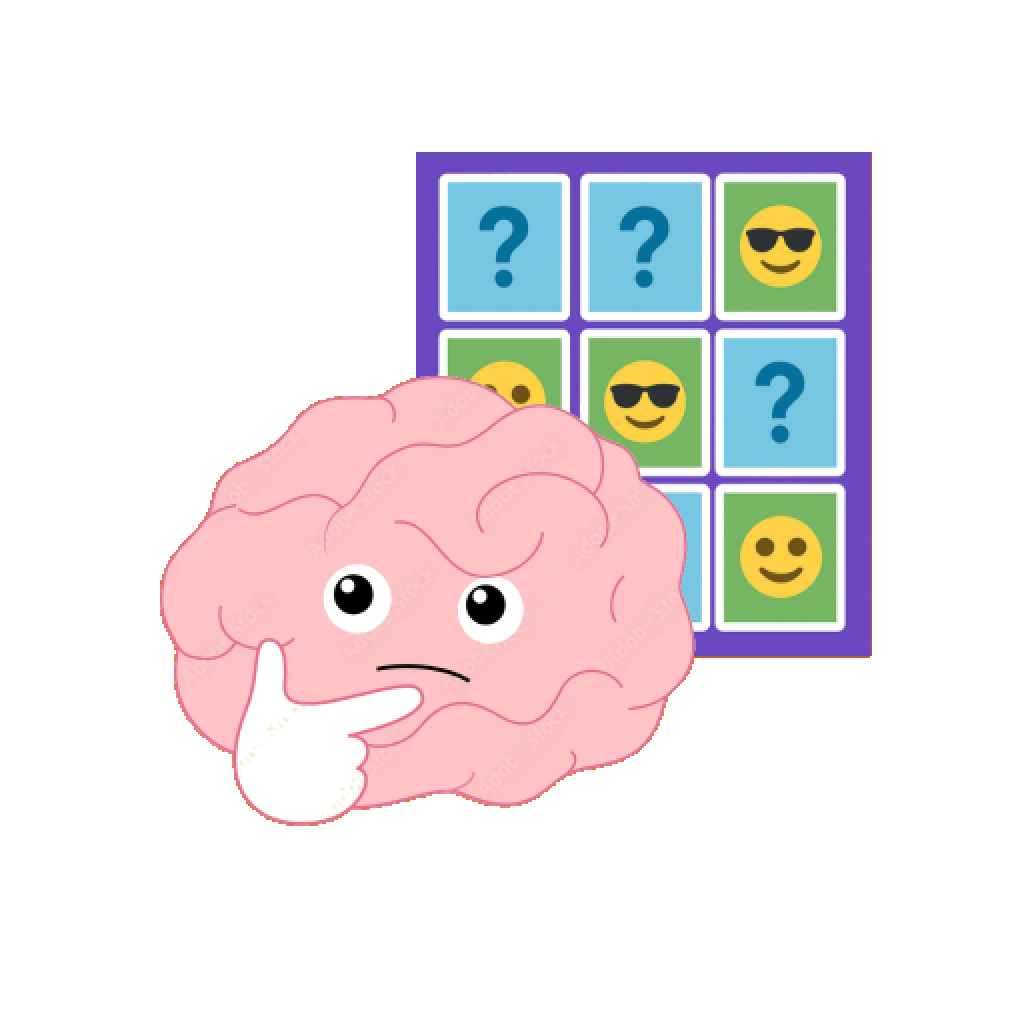
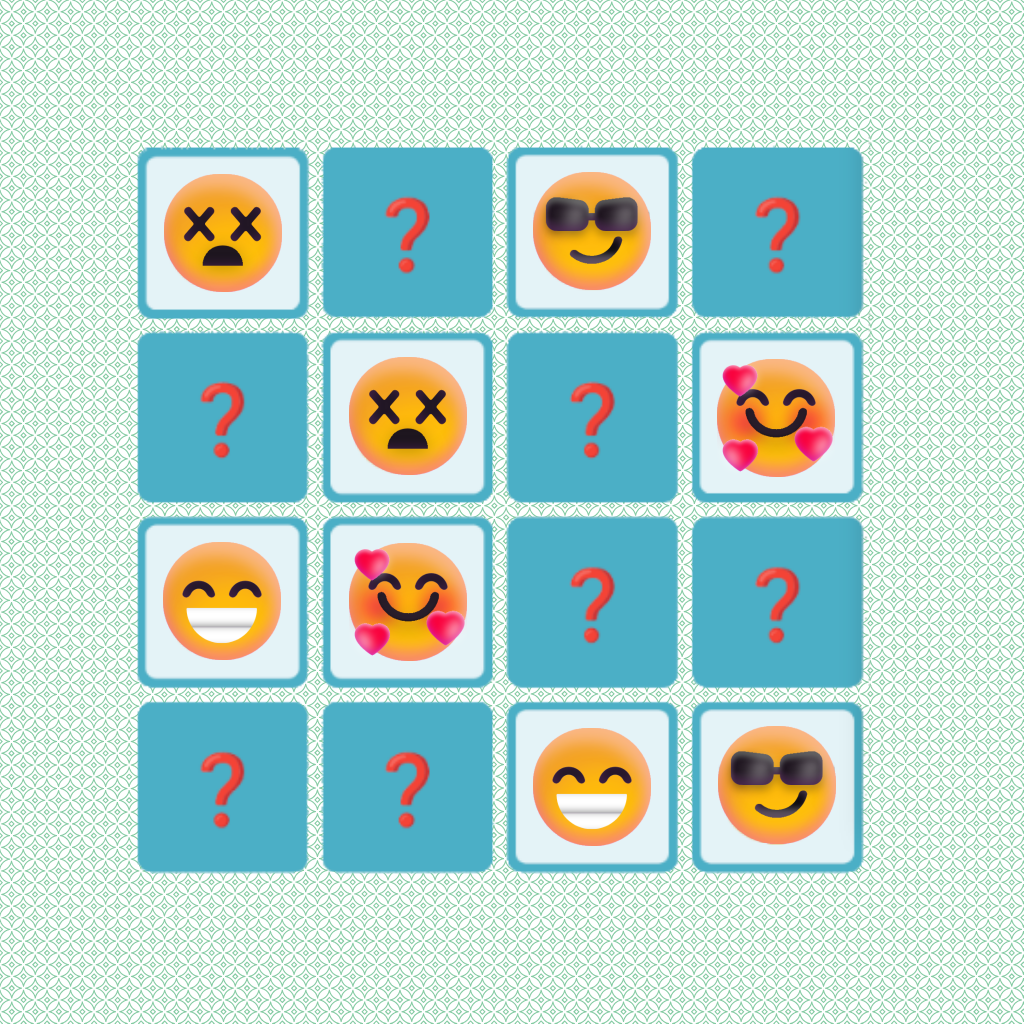
Update privacy policy

diff --git a/privacy-policy.html b/privacy-policy.html
@@ -237,7 +237,7 @@
     <table>
       <tr><th>What</th><th>Why we have it</th><th>Optional?</th></tr>
       <tr><td>A random device-generated ID</td><td>Identifies your profile on our server without needing an account, email, or password</td><td>No &ndash; created automatically on install</td></tr>
-      <tr><td>The username you choose</td><td>Shown to friends and opponents so people can find and challenge you</td><td>No &ndash; required to use social/multiplayer features</td></tr>
+      <tr><td>The username you choose</td><td>Shown to friends and opponents so people can find and challenge you</td><td>No &ndash; required to use multiplayer features</td></tr>
       <tr><td>A flag emoji you pick</td><td>Lets you represent a country/region on your profile</td><td>Yes</td></tr>
       <tr><td>Push notification token</td><td>Lets us deliver notifications (friend requests, game invites, turn reminders)</td><td>Yes &ndash; only collected if you allow notifications</td></tr>
       <tr><td>Notification preferences</td><td>Remembers which notification categories you've turned on or off</td><td>&mdash;</td></tr>
@@ -245,7 +245,7 @@
       <tr><td>Game history (moves, times, results)</td><td>Needed to run async and live multiplayer games and track your stats</td><td>&mdash;</td></tr>
       <tr><td>Advertising identifier &amp; device/app data</td><td>Collected by Google AdMob to serve ads (see Section 4)</td><td>Depends on your device's ad-tracking settings</td></tr>
     </table>
-    <p>We do <strong>not</strong> collect your real name, email address, phone number, precise location, contacts, photos, or payment information. There is no in-app chat or free-text messaging between users &mdash; the only text you can send another player is a game invite code.</p>
+    <p>We do <strong>not</strong> collect your real name, email address, phone number, precise location, contacts, photos, or payment information. There is no in-app chat or free-text messaging between users.</p>
   </section>
 
   <section id="how-we-use">
@@ -273,7 +273,7 @@
       <tr><th>Service</th><th>Purpose</th></tr>
       <tr><td>Google AdMob</td><td>Serving in-app ads</td></tr>
       <tr><td>Expo push notification service</td><td>Delivering push notifications to your device (relays to Apple/Google's own notification systems)</td></tr>
-      <tr><td><span class="fill-in">Heroku</span></td><td>Hosting the backend server that stores game, friend, and profile data</td></tr>
+      <tr><td>Heroku</td><td>Hosting the backend server that stores game, friend, and profile data</td></tr>
     </table>
     <p>We share the minimum data each of these services needs to do its job. We do not sell or rent your information to anyone.</p>
   </section>
@@ -313,8 +313,8 @@
   <section id="contact">
     <h2>11. Contact Us</h2>
     <p>Questions about this policy or your data? Reach out to:</p>
-    <p><span class="fill-in">AGFunDev</span><br>
-    <span class="fill-in">u2374393115@gmail.com</span></p>
+    <p>AGFunDev<br>
+    u2374393115@gmail.com</p>
   </section>
 
   <footer>
